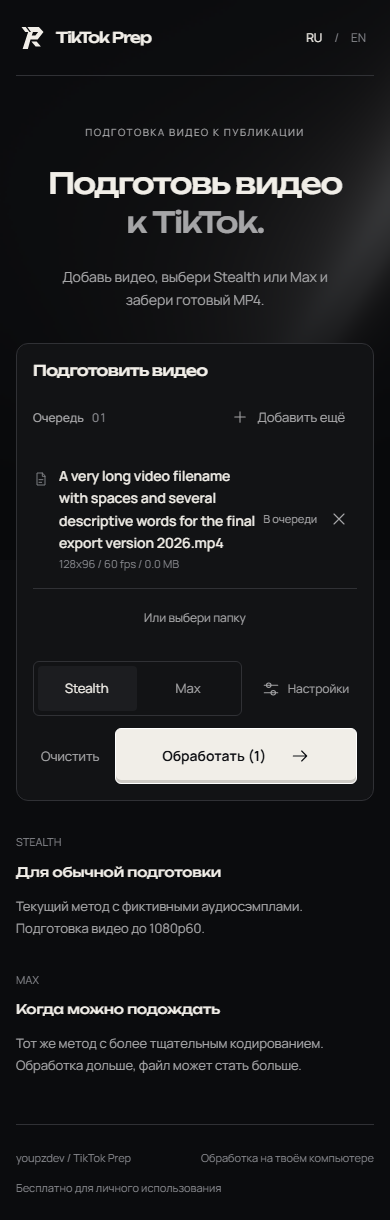
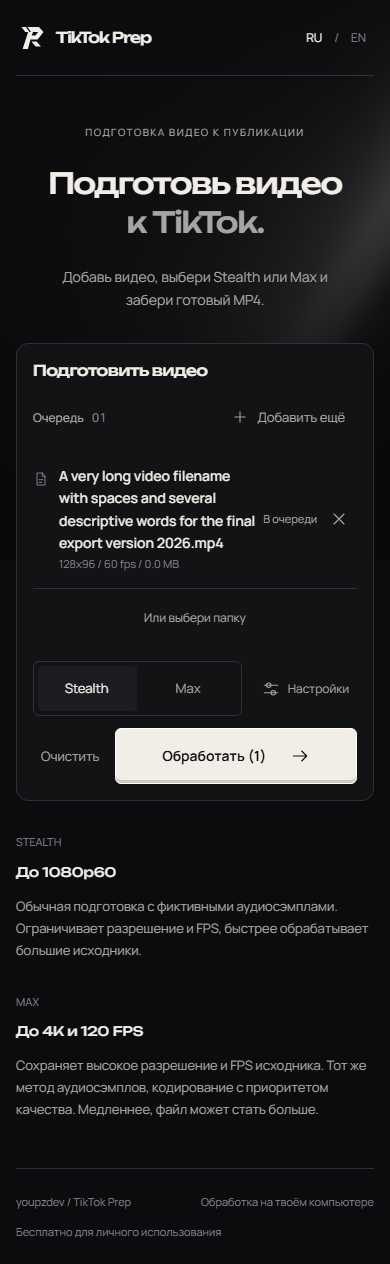
Video | Max 4K120 Profile

diff --git a/static/app.js b/static/app.js
@@ -15,18 +15,18 @@ const messages = {
   retry: ["Повторить", "Retry"], btn_files: ["Добавить ещё", "Add more"], btn_folder: ["Или выбери папку", "Or choose a folder"],
   empty_title: ["Перетащи видео сюда", "Drop your videos here"],
   modes_title: ["Выбранный режим", "Selected mode"], mode_choice: ["Режим обработки", "Processing mode"], settings: ["Настройки", "Settings"],
-  mode_stealth_note: ["Stealth перекодирует видео в H.264 Main с обычной скоростью. Размер и частота кадров не увеличиваются.", "Stealth encodes H.264 Main at standard speed. Resolution and frame rate are never increased."],
-  mode_max_note: ["Max использует более тщательное кодирование с переменным битрейтом. Обработка дольше, файл может стать больше.", "Max uses more thorough encoding with variable bitrate. Processing takes longer, and the file may be larger."],
+  mode_stealth_note: ["Stealth готовит видео до 1080p60 и рассчитывает битрейт по исходнику. Выбирай для обычной обработки. Метод фиктивных аудиосэмплов тот же, что у Max.", "Stealth prepares video up to 1080p60 and calculates bitrate from the source. Choose it for regular processing. It uses the same ghost sample method as Max."],
+  mode_max_note: ["Max сохраняет разрешение до 4K и частоту до 120 FPS, если они есть в исходнике. Перекодирует с приоритетом качества и применяет тот же метод фиктивных аудиосэмплов, что Stealth. Обработка дольше, файл может стать больше. Сохранение 4K/120 после публикации в TikTok пока не проверено.", "Max retains resolution up to 4K and frame rate up to 120 FPS when present in the source. It re-encodes with a focus on quality and uses the same ghost sample method as Stealth. Processing takes longer, and the file may be larger. Retaining 4K/120 after uploading to TikTok has not been verified."],
   size_label: ["Размер", "Dimensions"], fps_label: ["Частота", "Frame rate"], up_to: ["до {value}", "up to {value}"],
   ghost_name: ["Фиктивные аудиосэмплы", "Ghost audio samples"],
   ghost_note: ["В одной аудиодорожке число сэмплов увеличивается в 10 раз. Реальный звук сохраняется. Фиктивный хвост может влиять на совместимость с плеерами.", "The sample count grows tenfold in a single audio track. Real audio is preserved. The ghost tail may affect player compatibility."],
   btn_clear: ["Очистить", "Clear"], btn_cancel: ["Отменить", "Cancel"],
   btn_choose: ["Выбрать видео", "Choose videos"], btn_start_count: ["Обработать ({n})", "Process ({n})"], btn_working: ["Обработка", "Processing"],
   btn_starting: ["Запуск", "Starting"], btn_open: ["Открыть папку", "Open folder"],
-  guide_one_title: ["Для обычной подготовки", "For regular preparation"],
-  guide_one: ["Текущий метод с фиктивными аудиосэмплами. Подготовка видео до 1080p60.", "The current ghost sample method. Video preparation up to 1080p60."],
-  guide_two_title: ["Когда можно подождать", "When you can wait a little"],
-  guide_two: ["Тот же метод с более тщательным кодированием. Обработка дольше, файл может стать больше.", "The same method with more thorough encoding. Processing takes longer, and the file may be larger."],
+  guide_one_title: ["До 1080p60", "Up to 1080p60"],
+  guide_one: ["Обычная подготовка с фиктивными аудиосэмплами. Ограничивает разрешение и FPS, быстрее обрабатывает большие исходники.", "Regular preparation with ghost audio samples. Caps resolution and FPS for faster processing of large source files."],
+  guide_two_title: ["До 4K и 120 FPS", "Up to 4K and 120 FPS"],
+  guide_two: ["Сохраняет высокое разрешение и FPS исходника. Тот же метод аудиосэмплов, кодирование с приоритетом качества. Медленнее, файл может стать больше.", "Retains the source resolution and FPS up to the higher limits. The same audio sample method, with quality-focused encoding. Slower, with potentially larger files."],
   local_processing: ["Обработка на твоём компьютере", "Processed on your computer"], footer_note: ["Бесплатно для личного использования", "Free for personal use"],
   drop_now: ["Отпусти, чтобы добавить", "Drop to add videos"],
   queued: ["В очереди", "Queued"], probing: ["Анализ", "Analyzing"], processing: ["Кодирование", "Encoding"],

diff --git a/static/index.html b/static/index.html
@@ -44,7 +44,7 @@
     <div class="controls"><div class="mode-list" id="modes" role="radiogroup" aria-label="Режим обработки"></div><button id="btn-settings" class="text-button settings-button" type="button" aria-haspopup="dialog"><svg class="ico" aria-hidden="true"><use href="#i-settings"/></svg><span data-i18n="settings">Настройки</span></button><div class="dock-actions"><button class="text-button" id="btn-clear" type="button" hidden><span data-i18n="btn_clear">Очистить</span></button><button class="button primary" id="btn-start" type="button"><span data-i18n="btn_choose">Выбрать видео</span><svg class="ico" aria-hidden="true"><use href="#i-arrow"/></svg></button></div></div>
     <div class="result" id="result" role="status" hidden><div><strong id="result-text"></strong><details class="result-location"><summary data-i18n="result_location">Где сохранён файл</summary><span id="foot-out" class="result-path"></span></details></div><button class="button secondary" id="btn-open" type="button"><svg class="ico" aria-hidden="true"><use href="#i-folder"/></svg><span data-i18n="btn_open">Открыть папку</span></button></div>
   </section>
-  <section class="guide" id="guide" aria-label="Режимы"><article><span class="mode-label">STEALTH</span><h3 data-i18n="guide_one_title">Для обычной подготовки</h3><p data-i18n="guide_one">Текущий метод с фиктивными аудиосэмплами. Подготовка видео до 1080p60.</p></article><article><span class="mode-label">MAX</span><h3 data-i18n="guide_two_title">Когда можно подождать</h3><p data-i18n="guide_two">Тот же метод с более тщательным кодированием. Обработка дольше, файл может стать больше.</p></article></section>
+  <section class="guide" id="guide" aria-label="Режимы"><article><span class="mode-label">STEALTH</span><h3 data-i18n="guide_one_title">До 1080p60</h3><p data-i18n="guide_one">Обычная подготовка с фиктивными аудиосэмплами. Ограничивает разрешение и FPS, быстрее обрабатывает большие исходники.</p></article><article><span class="mode-label">MAX</span><h3 data-i18n="guide_two_title">До 4K и 120 FPS</h3><p data-i18n="guide_two">Сохраняет высокое разрешение и FPS исходника. Тот же метод аудиосэмплов, кодирование с приоритетом качества. Медленнее, файл может стать больше.</p></article></section>
 </main>
 <footer class="footer"><a href="https://t.me/youpzlabnsfw" target="_blank" rel="noopener">youpzdev / TikTok Prep</a><span id="foot-engine" data-i18n="local_processing">Обработка на твоём компьютере</span><span data-i18n="footer_note">Бесплатно для личного использования</span></footer>
 </div>

diff --git a/tests/test_max_pipeline.py b/tests/test_max_pipeline.py
@@ -24,7 +24,7 @@ class MaxPipelineTests(unittest.TestCase):
     def test_max_always_reencodes_with_reference_profile(self):
         command = self.command()
         for flag, expected in (("-c:v", "libx264"), ("-profile:v", "main"),
-                               ("-level", "5.2"), ("-preset", "slow"), ("-refs", "4"),
+                               ("-level", "6.0"), ("-preset", "slow"), ("-refs", "4"),
                                ("-bsf:v", app.REFERENCE_SEI_FILTER)):
             self.assertIn(flag, command)
             self.assertEqual(command[command.index(flag) + 1], expected)
@@ -35,15 +35,17 @@ class MaxPipelineTests(unittest.TestCase):
         self.assertIn("-crf", command)
         self.assertEqual(command[command.index("-crf") + 1], "14")
         self.assertNotIn("-b:v", command)
-        self.assertEqual(command[command.index("-maxrate") + 1], "40M")
-        self.assertEqual(command[command.index("-bufsize") + 1], "80M")
+        self.assertEqual(command[command.index("-maxrate") + 1], "240M")
+        self.assertEqual(command[command.index("-bufsize") + 1], "240M")
 
     def test_max_limits_resolution_and_fps_without_upscale(self):
         for width, height, fps, scale, expected_fps in (
-                (2160, 3840, 120, "scale=1080:1920", 60),
-                (3840, 2160, 120, "scale=1920:1080", 60),
+                (2160, 3840, 120, None, 120),
+                (3840, 2160, 120, None, 120),
+                (4320, 7680, 240, "scale=2160:3840", 120),
+                (7680, 4320, 240, "scale=3840:2160", 120),
                 (720, 1280, 24, None, 24),
-                (1920, 1920, 59.94, "scale=1080:1080", 59.94)):
+                (1920, 1920, 59.94, None, 59.94)):
             with self.subTest(width=width, height=height, fps=fps):
                 self.info.update(width=width, height=height, fps=fps, frames=fps * 2)
                 command = self.command()
@@ -99,8 +101,8 @@ class MaxPipelineTests(unittest.TestCase):
                              audio_count * 10)
             self.assertEqual(data[tail:], app.mp4mask.GHOST_SAMPLE_BYTES * audio_count * 9)
             info = app.probe(str(output))
-            self.assertEqual((info["width"], info["height"], info["fps"]), (128, 96, 60.0))
-            self.assertEqual(info["frames"], 60)
+            self.assertEqual((info["width"], info["height"], info["fps"]), (128, 96, 120.0))
+            self.assertEqual(info["frames"], 120)
             for mapping in ("0:v:0", "0:a:0"):
                 decoded = self.run_ffmpeg(["-i", str(encoded), "-map", mapping, "-f", "null", "-"])
                 self.assertEqual(decoded.stderr, b"")
@@ -111,7 +113,7 @@ class MaxPipelineTests(unittest.TestCase):
             ], capture_output=True, text=True, encoding="utf-8", check=True).stdout)["streams"]
             video, audio = streams
             self.assertEqual(video["profile"], "Main")
-            self.assertEqual(video["level"], 52)
+            self.assertEqual(video["level"], 60)
             self.assertAlmostEqual(float(video["start_time"]), float(audio["start_time"]), delta=0.03)
             self.assertAlmostEqual(float(video["duration"]), float(audio["duration"]), delta=0.03)
             masked_streams = json.loads(subprocess.run([
@@ -135,7 +137,7 @@ class MaxPipelineTests(unittest.TestCase):
             self.assertEqual(len(list(_find(tree, b"trak"))), 1)
             self.assertEqual(item["patch"]["ghost_samples"], 0)
 
-    def test_real_downscale_and_frame_limit(self):
+    def test_real_above_1080p60_is_preserved(self):
         with tempfile.TemporaryDirectory(prefix="max-scale-") as directory:
             source = Path(directory) / "source.mp4"
             output = Path(directory) / "encoded.mp4"
@@ -146,7 +148,46 @@ class MaxPipelineTests(unittest.TestCase):
             self.assertEqual(result.returncode, 0, result.stderr.decode("utf-8", "replace"))
             info = app.probe(str(output))
             self.assertEqual((info["width"], info["height"], info["fps"], info["frames"]),
-                             (1920, 1080, 60.0, 15))
+                             (2048, 1152, 120.0, 30))
+
+
+    def test_real_4k120_job_preserves_frames_and_single_ghost_track(self):
+        with tempfile.TemporaryDirectory(prefix="max-4k120-") as directory:
+            source = Path(directory) / "source.mp4"
+            self.run_ffmpeg(["-f", "lavfi", "-i", "testsrc2=size=3840x2160:rate=120:duration=0.25",
+                             "-f", "lavfi", "-i", "sine=sample_rate=48000:duration=0.25",
+                             "-c:v", "libx264", "-preset", "ultrafast", "-crf", "10",
+                             "-c:a", "aac", "-y", str(source)])
+            encoded = Path(directory) / "encoded.mp4"
+            original_mask = app.mp4mask.mask_reference
+            def save_encoded(src, dst, **kwargs):
+                shutil.copyfile(src, encoded)
+                return original_mask(src, dst, **kwargs)
+            item = {"src": str(source), "status": "queued"}
+            with patch.dict(app.JOBS, {"4k-test": {"mode": "max", "ghost": 10, "files": [item]}}), patch.object(
+                    app.mp4mask, "mask_reference", side_effect=save_encoded):
+                app.process_job("4k-test")
+            self.assertEqual(item["status"], "done", item)
+            info = app.probe(item["dst"])
+            self.assertEqual((info["width"], info["height"], info["fps"], info["frames"]),
+                             (3840, 2160, 120.0, 30))
+            before_data, before, _ = read_tree(encoded)
+            data, tree, _ = read_tree(item["dst"])
+            self.assertEqual(len(list(_find(tree, b"trak"))), 2)
+            for kind in (b"vide", b"soun"):
+                previous, current = track(before, kind), track(tree, kind)
+                count = _stsz_info(_child(sample_table(previous), b"stsz"))[1]
+                self.assertEqual(packets(before_data, previous), packets(data, current, count))
+            audio_count = _stsz_info(_child(sample_table(track(before, b"soun")), b"stsz"))[1]
+            self.assertEqual(_stsz_info(_child(sample_table(track(tree, b"soun")), b"stsz"))[1], audio_count * 10)
+            self.assertEqual(self.run_ffmpeg(["-i", item["dst"], "-map", "0:v:0", "-f", "null", "-"]).stderr, b"")
+            streams = json.loads(subprocess.run([
+                app.FFPROBE, "-v", "quiet", "-show_streams", "-of", "json", str(encoded)
+            ], capture_output=True, text=True, encoding="utf-8", check=True).stdout)["streams"]
+            video, audio = streams
+            self.assertEqual(video["level"], 60)
+            self.assertAlmostEqual(float(video["start_time"]), float(audio["start_time"]), delta=0.03)
+            self.assertAlmostEqual(float(video["duration"]), float(audio["duration"]), delta=0.03)
 
 
 if __name__ == "__main__":

diff --git a/tests/test_max_level.py b/tests/test_max_level.py
@@ -1,0 +1,37 @@
+from pathlib import Path
+import subprocess
+import tempfile
+import unittest
+
+import app
+
+
+class MaxLevelTests(unittest.TestCase):
+    def test_real_4k120_obeys_declared_h264_level(self):
+        with tempfile.TemporaryDirectory(prefix="max-level-") as directory:
+            source = Path(directory) / "source.mp4"
+            output = Path(directory) / "encoded.mp4"
+            generated = subprocess.run([
+                app.FFMPEG, "-v", "error", "-f", "lavfi", "-i",
+                "testsrc2=size=3840x2160:rate=120:duration=0.05",
+                "-f", "lavfi", "-i", "sine=sample_rate=48000:duration=0.05",
+                "-c:v", "libx264", "-preset", "ultrafast", "-crf", "10",
+                "-c:a", "aac", "-y", str(source)
+            ], capture_output=True, text=True, encoding="utf-8", errors="replace")
+            self.assertEqual(generated.returncode, 0, generated.stderr)
+            command = app.build_command(str(source), str(output), app.probe(str(source)),
+                                        app.PROFILES["max"])
+            command[command.index("-loglevel") + 1] = "warning"
+            encoded = subprocess.run(command, capture_output=True, text=True,
+                                     encoding="utf-8", errors="replace")
+            self.assertEqual(encoded.returncode, 0, encoded.stderr)
+            self.assertNotIn("level limit", encoded.stderr.lower(),
+                             "Max exceeds its declared H.264 level: " + encoded.stderr)
+            info = app.probe(str(output))
+            self.assertEqual((info["width"], info["height"], info["fps"], info["frames"]),
+                             (3840, 2160, 120.0, 6))
+            self.assertEqual(info["acodec"], "aac")
+
+
+if __name__ == "__main__":
+    unittest.main()

diff --git a/app.py b/app.py
@@ -229,17 +229,17 @@ PROFILES = {
         "recipe": "reference",
         "video_profile": "main",
         "scene_threshold": 40,
-        "max_short": _env("M_SHORT", 1080, int),
-        "max_long": _env("M_LONG", 1920, int),
-        "max_fps": _env("M_FPS", 60.0, float),
+        "max_short": _env("M_SHORT", 2160, int),
+        "max_long": _env("M_LONG", 3840, int),
+        "max_fps": _env("M_FPS", 120.0, float),
         "rate_control": "crf",
         "crf": _env("M_CRF", 14, int),
         "bpp": _env("M_BPP", 0.26, float),
-        "maxrate": _env("M_MAXRATE", "40M"),
-        "bufsize": _env("M_BUFSIZE", "80M"),
+        "maxrate": _env("M_MAXRATE", "240M"),
+        "bufsize": _env("M_BUFSIZE", "240M"),
         "preset": _env("M_PRESET", "slow"),
         "refs": _env("M_REFS", 4, int),
-        "level": _env("M_LEVEL", "5.2"),
+        "level": _env("M_LEVEL", "6.0"),
         "audio_bitrate": _env("M_ABR", "320k"),
         "reencode": "always",
         "x264_params": _env("M_X264", "weightb=0:chroma-qp-offset=2"),

diff --git a/docs/project-state.md b/docs/project-state.md
@@ -7,6 +7,37 @@ JavaScript без сборки; обработка через ffmpeg и прав
 Текущая задача: [SPEC.md](SPEC.md). Оформление: [design/design-main.md](design/design-main.md).
 Решения: [decisions.md](decisions.md).
 
+## Max 4K/120, 18.10.2026
+
+Пользователь уточнил цель Max: сохранить высокое разрешение и FPS при
+эксперименте со сжатием TikTok. Новый профиль: до 2160/3840/120,
+H.264 Main L6.0, slow/CRF14/refs4, пиковый предел 240M и буфер 240M.
+Параметры ниже пределов не увеличиваются. Stealth не изменён. Фиктивные
+сэмплы добавляются прежним методом в единственную аудиодорожку.
+Описание RU/EN на сайте различает пределы и назначение режимов.
+
+Новые ожидания сначала дали 7 падений на прежнем профиле. После правки
+полный Python-прогон: 64 теста прошли. Реальный process_job сохранил
+3840x2160/120 и 30 кадров, одну аудиодорожку с десятикратным числом сэмплов,
+настоящие пакеты потоков и синхронизацию. Видео декодируется; фиктивный
+AAC-хвост не предназначен для обычного декодирования. Независимый review
+проверил обе ориентации 4K/120 и нашёл превышение CPB: буфер 480M заменён
+на 240M, соответствующий Main L6.0. Новый tests/test_max_level.py сначала
+падал на предупреждении x264, затем прошёл после исправления.
+
+Мутации пойманы: возврат 1080p (5 падений), возврат 60 FPS (4 падения),
+отключение ghost (1 падение). Патчи только в памяти, исходники восстановлены.
+Браузерный ui-check прошёл в 1440x900 и 390x844 через обновлённый сервер:
+обработка Stealth/Max, очередь, отмена, ошибки, RU/EN. Отдельно проверены
+новые описания, реальные пределы API, диалог и возврат фокуса; снимки 16/17
+в shots/. node --check static/app.js прошёл.
+Сохраняется известный ResourceWarning о незакрытых pipe-объектах process_job.
+
+Официальный [Content Posting API](https://developers.tiktok.com/doc/content-posting-api-media-transfer-guide)
+указывает предел 60 FPS. Это не полная спецификация ручной загрузки через
+приложение. Дополнительный подтверждённый способ обхода сжатия не найден
+и не добавлен. Сохранение 4K/120 после публикации не проверено.
+
 ## Компактная рабочая зона и логотип, 18.10.2026
 
 Выбраны компоновка A и знак RIBBON. Рабочая зона собрана в одну панель:
@@ -78,7 +109,9 @@ tests/ui-motion.cjs прошёл с новым видом, диалогом и r
 При параллельных проверках p95 достиг 33.4 мс; в отдельном прогоне был 16.7 мс.
 Это проверка локального headless Chromium, не измерение на реальном телефоне.
 
-## Stealth и Max
+## Stealth и Max, профиль от 17.10.2026
+
+Параметры Max ниже заменены решением 18.10.2026, см. начало документа.
 
 Пользователь 17.10.2026 подтвердил рабочую публикацию Stealth с фиктивными
 аудиосэмплами. Его алгоритм в этой задаче не менялся.

diff --git a/README.md b/README.md
@@ -46,10 +46,10 @@ winget install Gyan.FFmpeg
 
 | Параметр | Stealth | Max |
 |---|---|---|
-| Размер | короткая сторона до 1080, длинная до 1920 | короткая сторона до 1080, длинная до 1920 |
-| FPS | не выше исходного и 60, возможна дробная частота | не выше исходного и 60, возможна дробная частота |
-| Видео | всегда H.264 Main L5.2 | всегда H.264 Main L5.2 |
-| Битрейт | от размера и длительности входного файла | CRF14, пиковый предел 40 Мбит/с, slow |
+| Размер | короткая сторона до 1080, длинная до 1920 | короткая сторона до 2160, длинная до 3840 |
+| FPS | не выше исходного и 60, возможна дробная частота | не выше исходного и 120, возможна дробная частота |
+| Видео | всегда H.264 Main L5.2 | всегда H.264 Main L6.0 |
+| Битрейт | от размера и длительности входного файла | CRF14, пиковый предел 240 Мбит/с, slow |
 | Звук при перекодировании | AAC LC, 48 кГц, стерео, 200 кбит/с | AAC LC, 48 кГц, стерео, 320 кбит/с |
 
 Разрешение не увеличивается. Отсутствующий звук не создаётся.
@@ -97,12 +97,18 @@ Stealth и его метаданные при этом остаются выбр
 
 ### Max
 
-Max всегда перекодирует видео: H.264 Main L5.2, preset slow, refs=4, CRF14,
-maxrate 40M и bufsize 80M. Переменный битрейт следует сложности изображения.
-Ограничения размера и FPS, SEI и контейнерные правила совпадают со Stealth.
+Max всегда перекодирует видео: H.264 Main L6.0, preset slow, refs=4, CRF14,
+maxrate 240M и bufsize 240M. Переменный битрейт следует сложности изображения.
+Пределы: 2160 по короткой стороне, 3840 по длинной и 120 FPS. Разрешение и
+частота ниже этих пределов сохраняются без увеличения. Уровень 6.0 позволяет
+кодировать 4K/120 без ложного обозначения уровня 5.2. SEI и контейнерные
+правила совпадают со Stealth.
 Опция фиктивных сэмплов работает в единственной аудиодорожке, без клона.
 Кодирование занимает больше времени; размер файла может увеличиться.
-Превосходство после публикации в TikTok локальными тестами не доказано.
+Сохранение 4K/120 после публикации в TikTok локальными тестами не доказано.
+Официальный [Content Posting API](https://developers.tiktok.com/doc/content-posting-api-media-transfer-guide)
+указывает максимум 60 FPS. Max предназначен для эксперимента с ручной загрузкой;
+это не гарантия обхода серверного перекодирования.
 
 ## Настройки
 

diff --git a/docs/SPEC.md b/docs/SPEC.md
@@ -17,7 +17,8 @@
 - Stealth сохраняет текущий алгоритм. Пользователь 17.10.2026 подтвердил,
   что метод фиктивных аудиосэмплов работает при публикации.
 - Max становится усиленным Stealth с обязательным перекодированием под TikTok.
-  Та же схема одной аудиодорожки, те же контейнерные правила и предел 1080p60.
+  Та же схема одной аудиодорожки и контейнерные правила. Уточнение ниже
+  заменяет прежний предел Max 1080p60.
   Более тщательный пресет кодирования и запас качества различают режимы.
   Отсутствующий звук не создается, разрешение и FPS не увеличиваются.
   Выгода после публикации нового Max требует отдельного сравнения.
@@ -71,3 +72,22 @@
 логотип в 16/32 px, настройки и возврат фокуса, основной путь обоих режимов,
 снимки пустоты/очереди/ошибки/обработки/результата в 1440x900 и 390x844.
 Тексты вычитаны по humanizer-ru, проверка текста обязательна.
+
+## Max 4K/120, уточнение от 18.10.2026
+
+Пользователь уточнил назначение Max: эксперимент с сохранением высокого
+качества и FPS при публикации в TikTok, включая рабочий метод фиктивных
+аудиосэмплов. Прежний предел Max 1080p60 отменён. Новый предел: короткая
+сторона 2160, длинная 3840, 120 FPS; ниже исходных значений не увеличиваем.
+Всегда перекодировать H.264 Main, CRF14/slow/refs4, уровень 6.0 для 4K/120,
+пиковый предел 240M, буфер 240M. Это предел скорости потока, не целевой битрейт.
+Stealth сохраняет текущие параметры. Сэмплы остаются в одной аудиодорожке,
+без дополнительного клона. Отсутствующий звук не создаётся.
+
+Проверка: тесты сначала показывают срезание 4K/120 старым профилем; затем
+реальный process_job сохраняет 3840x2160/120, число кадров, настоящие пакеты
+аудио/видео и синхронизацию. 8K/240 ограничивается до новых пределов; малые
+исходники не увеличиваются. Настройки сайта получают параметры сервера,
+описания RU/EN различают режимы. Мутации лимитов и ghost должны ловиться.
+Новые методы обхода сжатия без воспроизводимого результата не добавляются.
+Сохранение 4K/120 после публикации проверяется отдельно от локального файла.

diff --git a/docs/decisions.md b/docs/decisions.md
@@ -41,3 +41,16 @@ Unbounded для заголовков, Manrope для текста. Технич
 убрать лишнее из рабочей зоны. Открытая лицензия Anthropic Sans не найдена,
 поэтому в показанном и выбранном варианте используется Manrope с OFL.
 Прежняя техническая колонка и fixed dock заменены этим решением.
+
+# Max с пределом 4K/120
+
+Решение от 18.10.2026 заменяет пределы Max из решения от 17.10.2026:
+2160/3840/120 вместо 1080/1920/60. Обязательное перекодирование сохраняется,
+уровень H.264 Main повышен до 6.0, пиковый предел до 240M, буфер до 240M.
+Почему: пользователь уточнил цель Max как сохранение высоких параметров
+исходника при эксперименте со сжатием TikTok, вместо ограничения 1080p60.
+Метод фиктивных сэмплов сохраняется. Дополнительные вмешательства в контейнер
+без воспроизводимого результата не добавлены. Прежняя запись остаётся
+историей; новые параметры и критерии находятся в SPEC.md.
+Не менять без: реального кодирования, проверки кадров, потоков и синхронизации.
+Публикация и её результат остаются отдельной проверкой.
